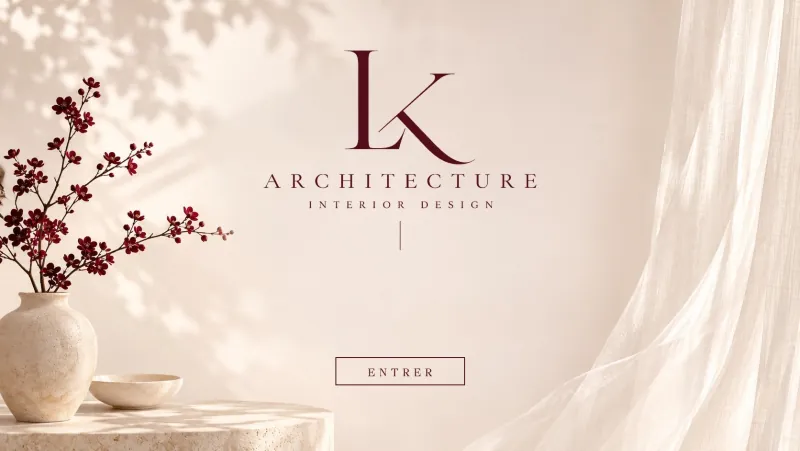
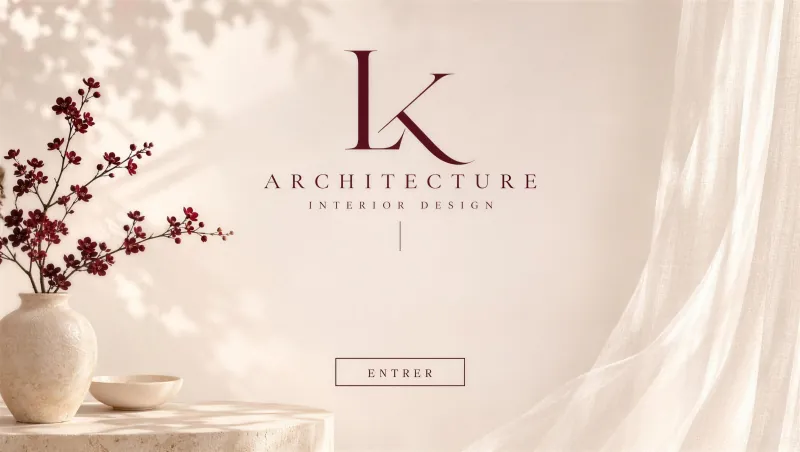
Higher-resolution home cover and English ENTER version

diff --git a/en/index.html b/en/index.html
@@ -6,7 +6,7 @@
   <title>LK Architecture — Interior Design in Cessy, Pays de Gex &amp; Geneva</title>
   <meta name="description" content="LK Architecture designs singular, made-to-measure interiors in Cessy, the Pays de Gex and the canton of Geneva: space planning, decoration, plans, 3D visuals, materials and furniture.">
   <meta name="theme-color" content="#eddbcf">
-  <link rel="preload" as="image" type="image/webp" imagesrcset="../img/hero-cover-800.webp 800w, ../img/hero-cover-1200.webp 1200w, ../img/hero-cover.webp 1672w" imagesizes="(max-aspect-ratio: 1/1) 230vw, 100vw">
+  <link rel="preload" as="image" type="image/webp" imagesrcset="../img/hero-cover-en-800.webp 800w, ../img/hero-cover-en-1280.webp 1280w, ../img/hero-cover-en-1920.webp 1920w, ../img/hero-cover-en-2560.webp 2560w" imagesizes="(max-aspect-ratio: 1/1) 230vw, 100vw">
   <script type="application/ld+json">{"@context": "https://schema.org", "@type": "ProfessionalService", "@id": "https://lkarchitecture.fr/#lk", "name": "LK Architecture", "url": "https://lkarchitecture.fr/", "description": "Design et architecture d’intérieur sur mesure à Cessy, dans le Pays de Gex le canton de Genève et à Annecy : aménagement, décoration, plans d’aménagement, visuels 3D, choix des matériaux, du mobilier et des luminaires.", "logo": "https://lkarchitecture.fr/img/logo-champagne.svg", "image": ["https://lkarchitecture.fr/img/hero-cover.jpg", "https://lkarchitecture.fr/img/vision-dining.jpg", "https://lkarchitecture.fr/img/vision-marble.jpg"], "email": "lkarchitecture.interior@gmail.com", "telephone": "+33767052190", "address": {"@type": "PostalAddress", "addressLocality": "Cessy", "postalCode": "01170", "addressRegion": "Auvergne-Rhône-Alpes", "addressCountry": "FR"}, "areaServed": [{"@type": "City", "name": "Cessy"}, {"@type": "AdministrativeArea", "name": "Pays de Gex"}, {"@type": "City", "name": "Gex"}, {"@type": "City", "name": "Divonne-les-Bains"}, {"@type": "City", "name": "Ferney-Voltaire"}, {"@type": "City", "name": "Saint-Genis-Pouilly"}, {"@type": "AdministrativeArea", "name": "Canton de Genève"}, {"@type": "City", "name": "Genève"}, {"@type": "City", "name": "Annecy"}], "knowsAbout": ["Architecture d’intérieur", "Design d’intérieur", "Décoration intérieure", "Aménagement intérieur", "Visuels 3D"], "sameAs": ["https://www.instagram.com/liliya.kolo/"]}</script>
   <!--hreflang--><link rel="canonical" href="https://lkarchitecture.fr/en/">
   <link rel="alternate" hreflang="fr" href="https://lkarchitecture.fr/">
@@ -35,8 +35,8 @@
     <div class="hero__stage">
       <picture class="hero__media">
         <source type="image/webp" sizes="(max-aspect-ratio: 1/1) 230vw, 100vw"
-                srcset="../img/hero-cover-800.webp 800w, ../img/hero-cover-1200.webp 1200w, ../img/hero-cover.webp 1672w">
-        <img src="../img/hero-cover.jpg" width="1672" height="941" fetchpriority="high"
+                srcset="../img/hero-cover-en-800.webp 800w, ../img/hero-cover-en-1280.webp 1280w, ../img/hero-cover-en-1920.webp 1920w, ../img/hero-cover-en-2560.webp 2560w">
+        <img src="../img/hero-cover-en.jpg" width="1920" height="1084" fetchpriority="high"
              alt="LK Architecture — Interior Design: burgundy LK monogram on a pale wall, a flowering branch, a travertine vase and a linen curtain in morning light.">
       </picture>
       <a class="hero__enter" href="vision.html" data-transition data-hero-item><span class="visually-hidden">Enter</span></a>

diff --git a/index.html b/index.html
@@ -6,7 +6,7 @@
   <title>LK Architecture — Architecture d’intérieur à Cessy, Pays de Gex &amp; Genève</title>
   <meta name="description" content="LK Architecture conçoit des intérieurs singuliers et sur mesure à Cessy, dans le Pays de Gex et le canton de Genève : aménagement, décoration, plans, visuels 3D, matériaux et mobilier.">
   <meta name="theme-color" content="#eddbcf">
-  <link rel="preload" as="image" type="image/webp" imagesrcset="img/hero-cover-800.webp 800w, img/hero-cover-1200.webp 1200w, img/hero-cover.webp 1672w" imagesizes="(max-aspect-ratio: 1/1) 230vw, 100vw">
+  <link rel="preload" as="image" type="image/webp" imagesrcset="img/hero-cover-800.webp 800w, img/hero-cover-1280.webp 1280w, img/hero-cover-1920.webp 1920w, img/hero-cover-2560.webp 2560w" imagesizes="(max-aspect-ratio: 1/1) 230vw, 100vw">
   <script type="application/ld+json">{"@context": "https://schema.org", "@type": "ProfessionalService", "@id": "https://lkarchitecture.fr/#lk", "name": "LK Architecture", "url": "https://lkarchitecture.fr/", "description": "Design et architecture d’intérieur sur mesure à Cessy, dans le Pays de Gex le canton de Genève et à Annecy : aménagement, décoration, plans d’aménagement, visuels 3D, choix des matériaux, du mobilier et des luminaires.", "logo": "https://lkarchitecture.fr/img/logo-champagne.svg", "image": ["https://lkarchitecture.fr/img/hero-cover.jpg", "https://lkarchitecture.fr/img/vision-dining.jpg", "https://lkarchitecture.fr/img/vision-marble.jpg"], "email": "lkarchitecture.interior@gmail.com", "telephone": "+33767052190", "address": {"@type": "PostalAddress", "addressLocality": "Cessy", "postalCode": "01170", "addressRegion": "Auvergne-Rhône-Alpes", "addressCountry": "FR"}, "areaServed": [{"@type": "City", "name": "Cessy"}, {"@type": "AdministrativeArea", "name": "Pays de Gex"}, {"@type": "City", "name": "Gex"}, {"@type": "City", "name": "Divonne-les-Bains"}, {"@type": "City", "name": "Ferney-Voltaire"}, {"@type": "City", "name": "Saint-Genis-Pouilly"}, {"@type": "AdministrativeArea", "name": "Canton de Genève"}, {"@type": "City", "name": "Genève"}, {"@type": "City", "name": "Annecy"}], "knowsAbout": ["Architecture d’intérieur", "Design d’intérieur", "Décoration intérieure", "Aménagement intérieur", "Visuels 3D"], "sameAs": ["https://www.instagram.com/liliya.kolo/"]}</script>
   <!--hreflang--><link rel="canonical" href="https://lkarchitecture.fr/">
   <link rel="alternate" hreflang="fr" href="https://lkarchitecture.fr/">
@@ -35,8 +35,8 @@
     <div class="hero__stage">
       <picture class="hero__media">
         <source type="image/webp" sizes="(max-aspect-ratio: 1/1) 230vw, 100vw"
-                srcset="img/hero-cover-800.webp 800w, img/hero-cover-1200.webp 1200w, img/hero-cover.webp 1672w">
-        <img src="img/hero-cover.jpg" width="1672" height="941" fetchpriority="high"
+                srcset="img/hero-cover-800.webp 800w, img/hero-cover-1280.webp 1280w, img/hero-cover-1920.webp 1920w, img/hero-cover-2560.webp 2560w">
+        <img src="img/hero-cover.jpg" width="1920" height="1084" fetchpriority="high"
              alt="LK Architecture — Interior Design : monogramme LK en bordeaux sur un mur clair, branche en fleurs, vase en travertin et voilage de lin dans la lumière du matin.">
       </picture>
       <a class="hero__enter" href="vision.html" data-transition data-hero-item><span class="visually-hidden">Entrer</span></a>

diff --git a/css/style.css b/css/style.css
@@ -80,8 +80,8 @@ html.is-arriving .veil { opacity: 1; }
 }
 .hero__stage {
   position: absolute; left: 50%; top: 50%;
-  aspect-ratio: 1672 / 941;
-  width: max(100vw, 100svh * 1672 / 941);
+  aspect-ratio: 4096 / 2313;
+  width: max(100vw, 100svh * 4096 / 2313);
   transform: translate(-50%, -50%);
 }
 .hero__media, .hero__media img { position: absolute; inset: 0; width: 100%; height: 100%; }
@@ -420,7 +420,7 @@ html.is-arriving .veil { opacity: 1; }
 .p-intro .p-back { margin-bottom: clamp(20px, 3vw, 40px); }
 .p-intro--list { padding-bottom: clamp(32px, 3.4vw, 56px); }
 
-.figure-wide--project img { aspect-ratio: 1672 / 941; }
+.figure-wide--project img { aspect-ratio: 4096 / 2313; }
 @media (max-width: 700px) {
   .figure-wide--project img { aspect-ratio: 4 / 3; object-position: 55% 50%; }
 }
@@ -428,7 +428,7 @@ html.is-arriving .veil { opacity: 1; }
 .projects { list-style: none; margin: 0; padding: 0 0 clamp(56px, 7vw, 104px); display: grid; grid-template-columns: 1fr; gap: clamp(40px, 5vw, 72px) clamp(20px, 2.4vw, 32px); }
 .project-card a { display: block; }
 .project-card__media { margin: 0; overflow: hidden; background: var(--ivory-deep); }
-.project-card__media img { width: 100%; aspect-ratio: 1672 / 941; object-fit: cover; transition: transform 1.4s var(--ease); }
+.project-card__media img { width: 100%; aspect-ratio: 4096 / 2313; object-fit: cover; transition: transform 1.4s var(--ease); }
 .project-card a:hover .project-card__media img, .project-card a:focus-visible .project-card__media img { transform: scale(1.025); }
 .project-card__text { display: flex; flex-direction: column; align-items: flex-start; gap: 10px; padding-top: 24px; }
 .project-card__meta { margin: 0; color: var(--ink-soft); }
